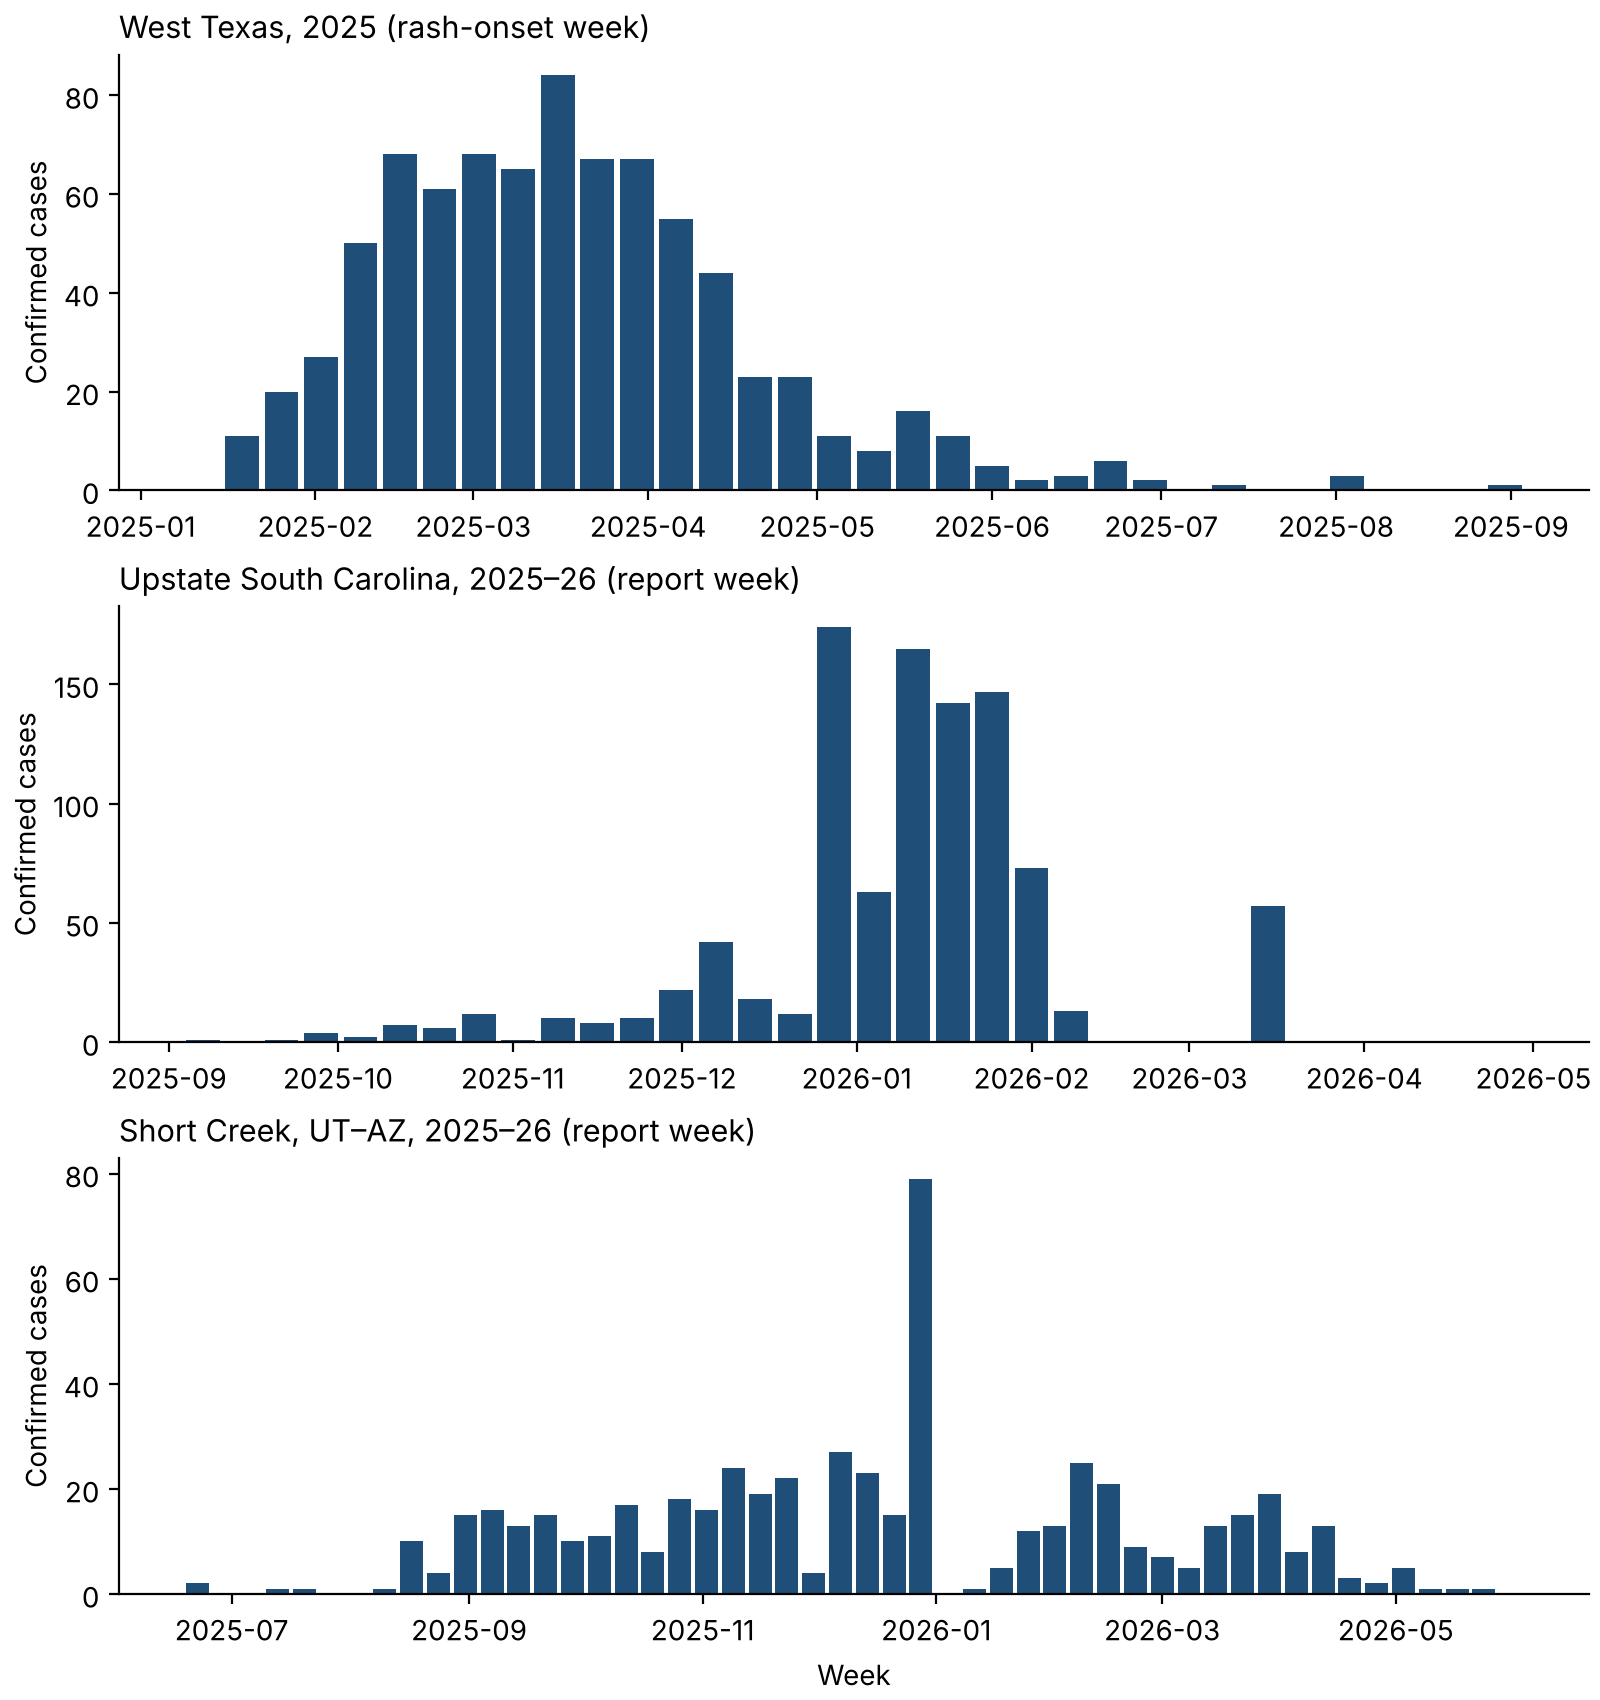
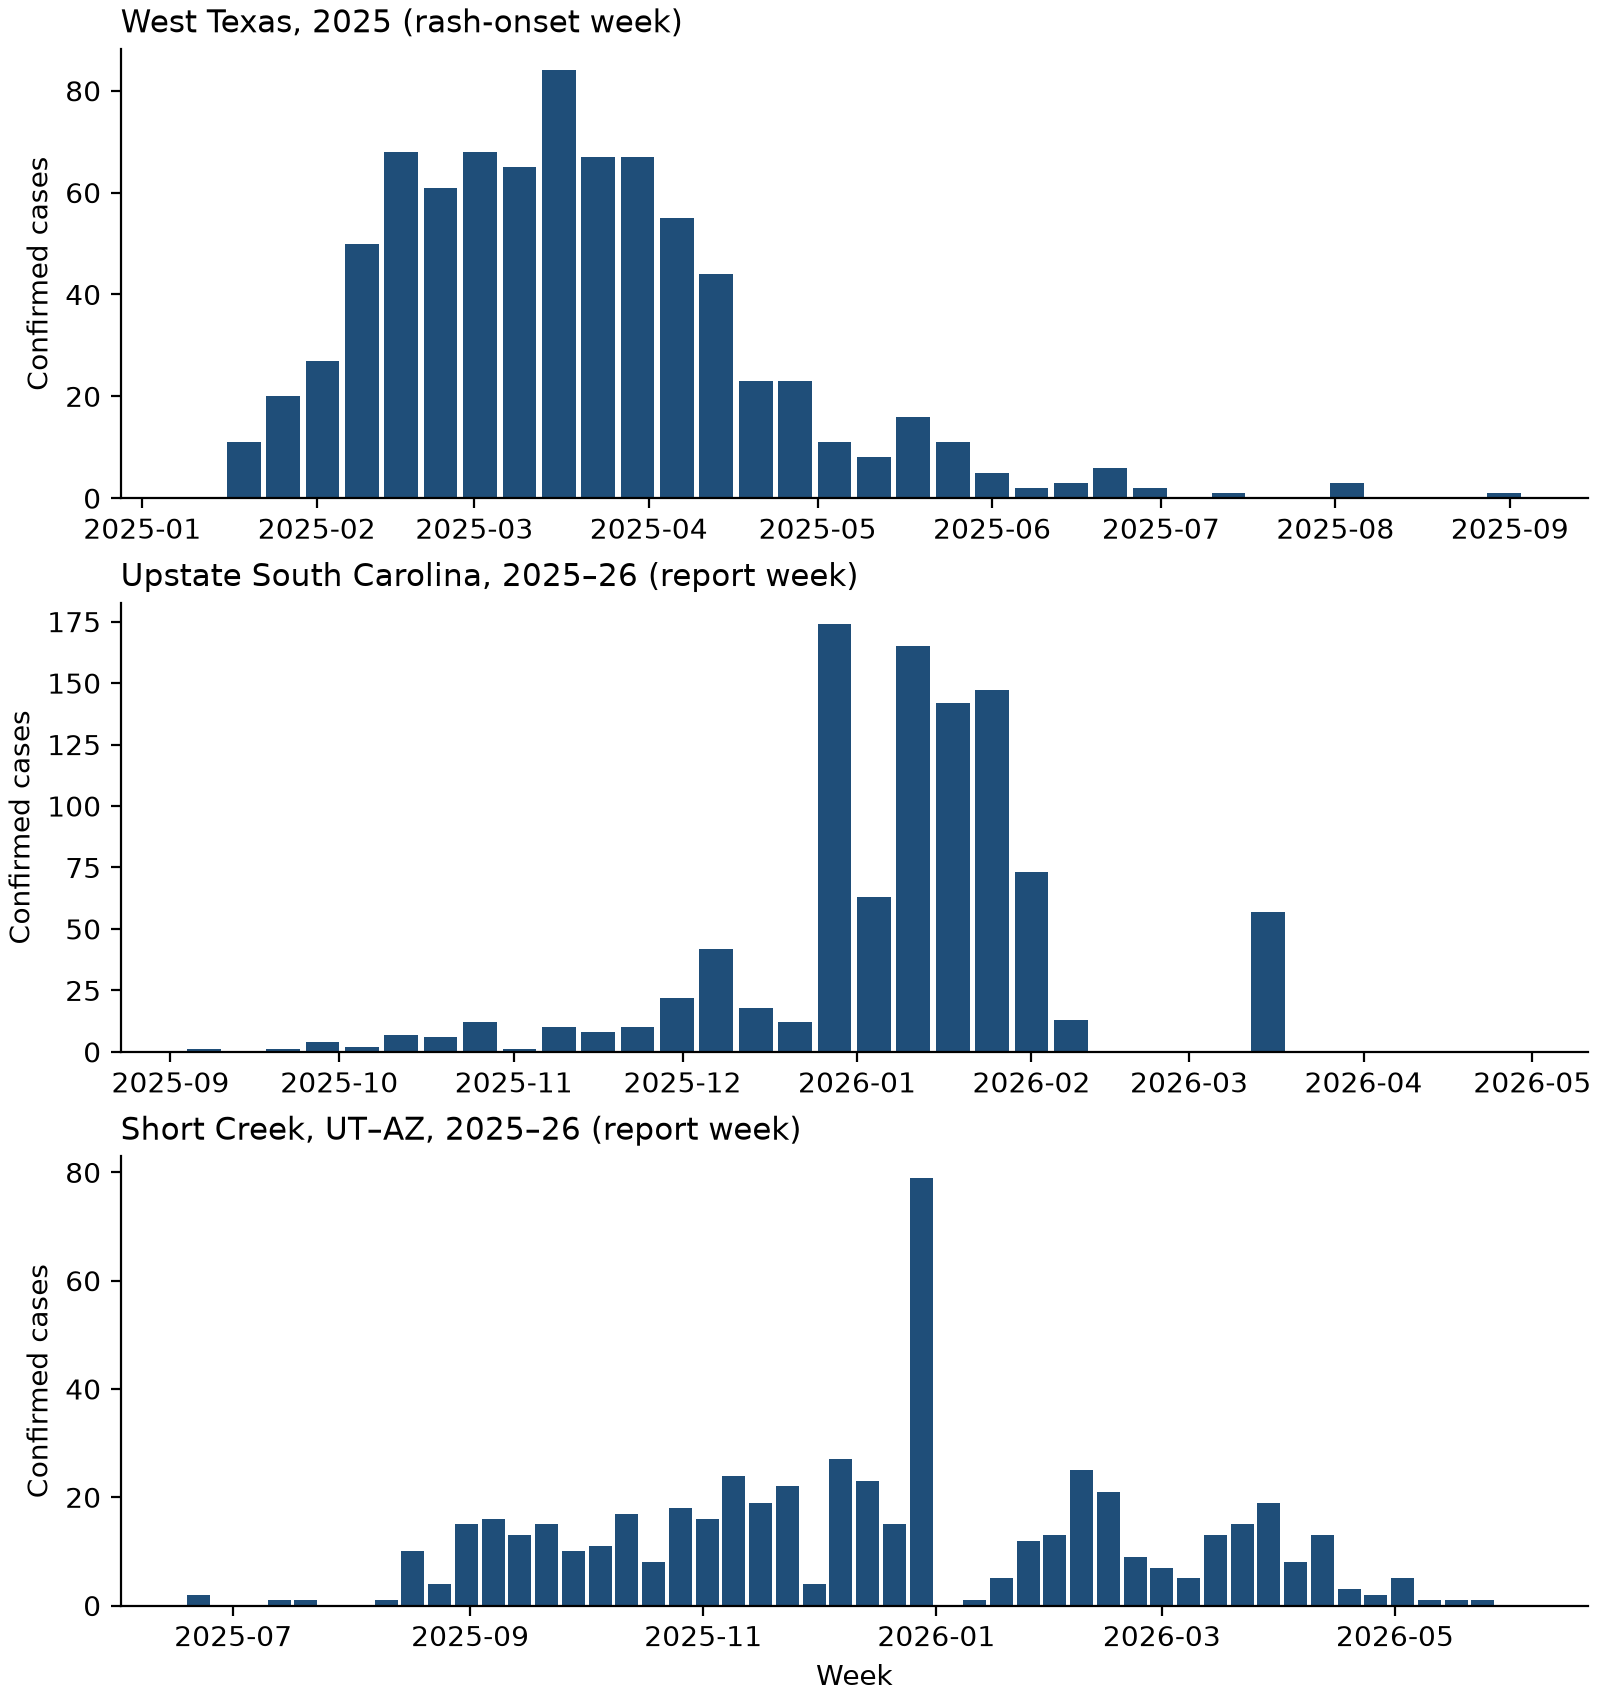
Fix pandas deprecation warning (day_of_week)

Changed region(s): [[0.0, 0.0, 1.0, 0.9976], [0.2812, 0.8729, 0.3438, 0.9041], [0.4688, 0.8729, 0.5, 0.9041]]

diff --git a/src/01_prepare_data.py b/src/01_prepare_data.py
@@ -48,7 +48,7 @@ def download_raw_files():
 
 def week_start(dates):
     """Sunday that starts the MMWR (epidemiological) week containing each date."""
-    return dates - pd.to_timedelta((dates.dt.dayofweek + 1) % 7, unit="D")
+    return dates - pd.to_timedelta((dates.dt.day_of_week + 1) % 7, unit="D")
 
 
 def county_weekly(county_df, counties, start, end):
